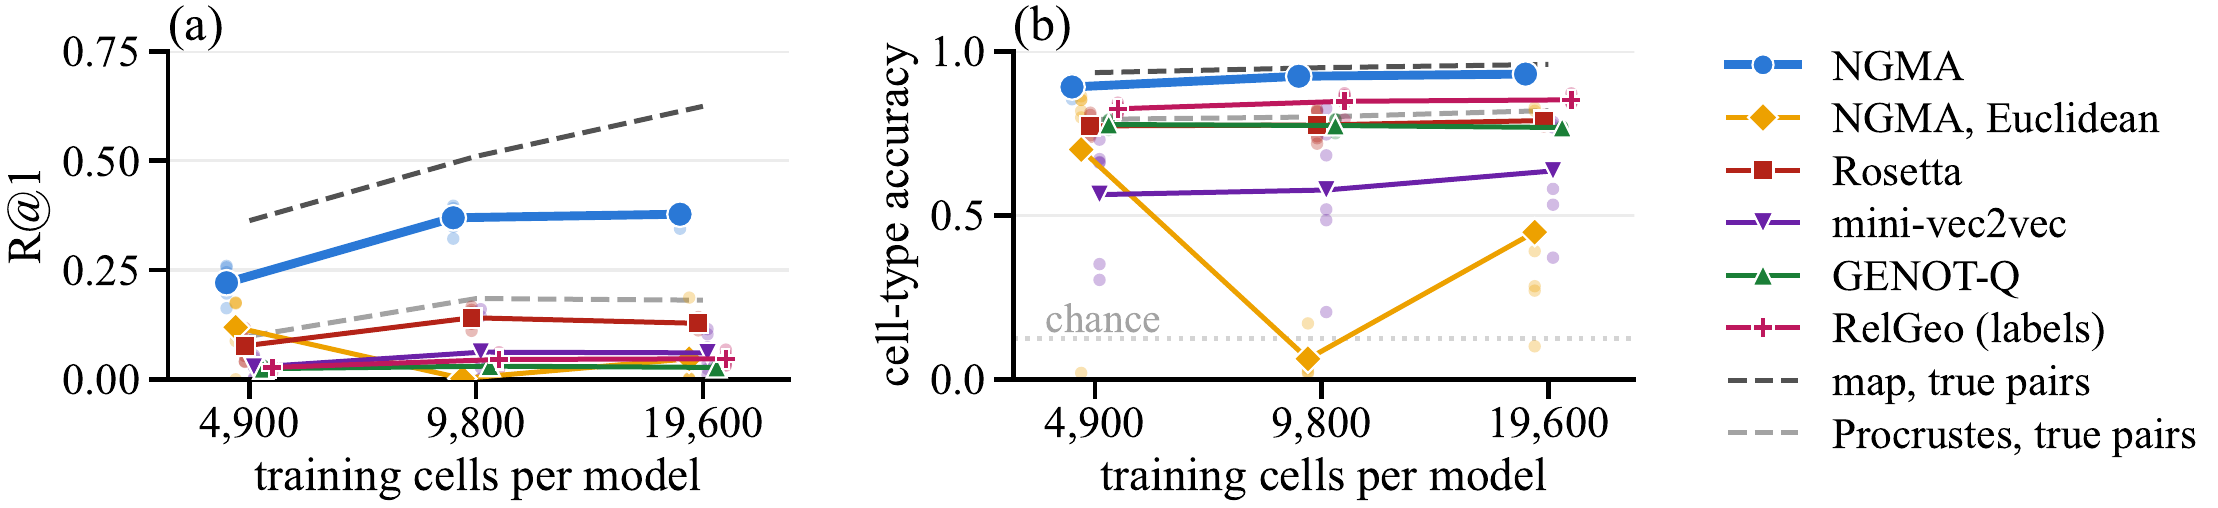
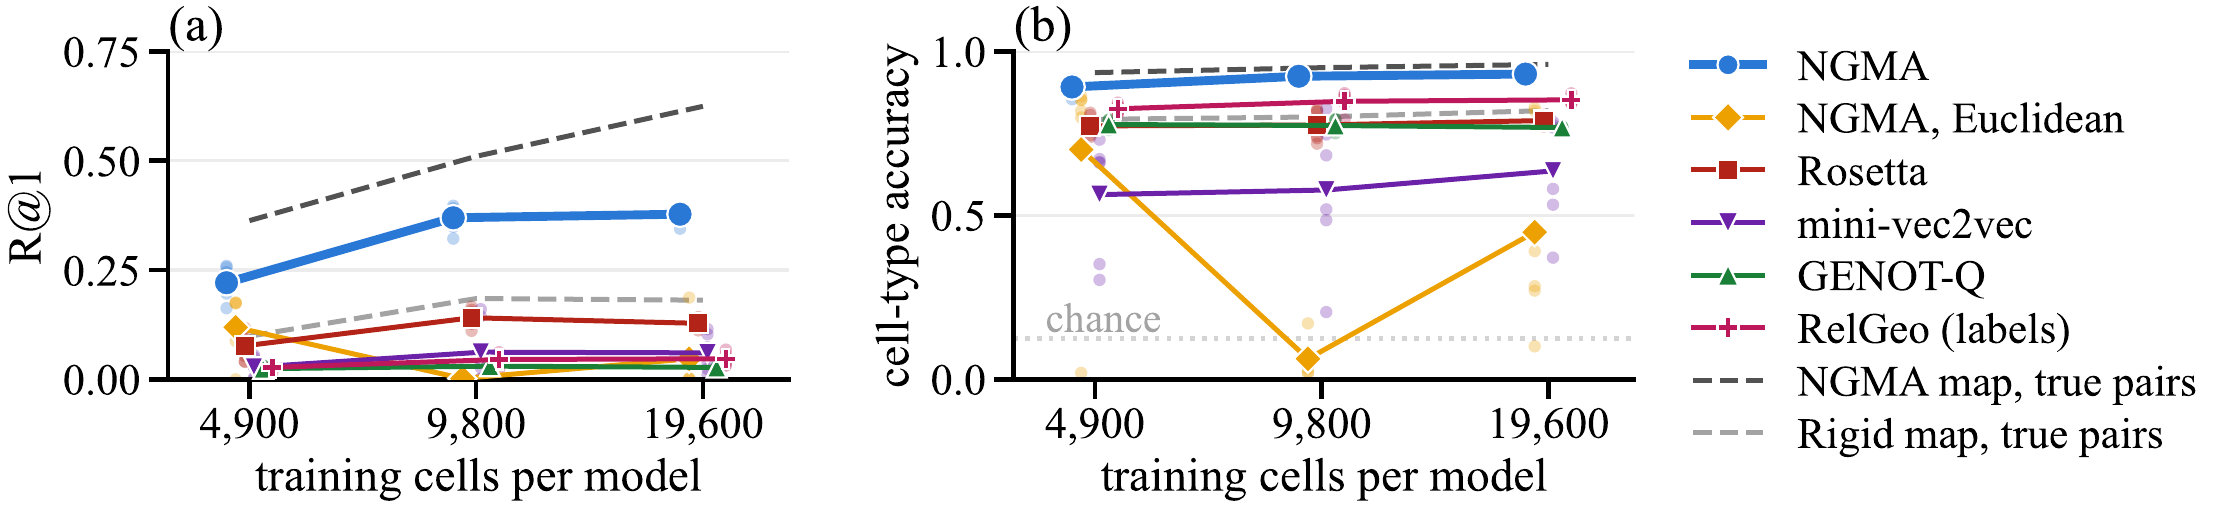
initial stuff

diff --git a/README.md b/README.md
@@ -7,37 +7,88 @@ Technical University of Denmark
 
 **NeurIPS 2026**
 
-<!-- TODO: paper and arXiv links -->
-[Results](#results) · [How NGMA works](#ngma-as-the-code-runs-it) · [Reproducing the paper](#reproducing-the-paper) · [Citation](#citation)
+**[Paper (PDF)](https://syrota.me/files/ngma.pdf)** · [Watch it](#two-latent-spaces-morphing-into-each-other) · [What we show](#what-we-show) · [Results](#results-in-numbers) · [How NGMA works](#ngma-as-the-code-runs-it) · [Reproducing the paper](#reproducing-the-paper) · [Citation](#citation)
 
 </div>
 
-Train two models on the same kind of data, with a different prior, loss, architecture or set of
-training points, and each puts a given data point somewhere else in its latent space. *Unpaired
-alignment* asks for the map between the two latent spaces from the two clouds of representations
-alone, with no data point known to both. That only makes sense if the two spaces share something
-the map preserves. We show that, under a precise form of the manifold hypothesis, they share the
-pullback of the data metric. The alignment map preserves it and the distribution of
-representations, and it is the only map that does so if and only if the data distribution breaks
-every symmetry of the data manifold, which holds generically. Our method, Neural Gromov–Monge
-Alignment (NGMA), uses no pairs and no labels.
+**Two models trained apart, on different data or with different priors, share not one data point.
+NGMA still finds which representation is which, with no pairs and no labels, and we prove when
+that is possible.**
 
-<p align="center"><img src="assets/distances.png" width="90%" alt="Pairwise distances of the same images in two VAEs: Euclidean distances scatter widely and differ in scale by five; pullback distances lie along the diagonal."></p>
+<p align="center"><img src="assets/cells.png" width="100%" alt="t-SNE of model b's lung cells by compartment, with grey lines from sampled cells to the cells they are matched to: short and within compartment for NGMA, long and across the map with Euclidean distances."></p>
 
-<sub>Two VAEs trained on the same FashionMNIST images, one with a VampPrior and one with a
-Gaussian prior. Each bin counts pairs of the same two held-out images, measured in both models
-(1,500 images, 1.1 million pairs). Euclidean latent distances do not agree: one model's are about
-five times the other's, and two thirds of the images have a different nearest neighbour in each model.
-Under each model's pullback metric, the distances agree at the same scale. The dashed line is the
-best single rescaling of one model's distances onto the other's.</sub>
+<sub>Two scVI models trained on disjoint halves of the Tabula Sapiens lung cells (19,600 each).
+With the pullback geometry, NGMA matches 37.7% of 10,000 held-out cells to themselves (chance is
+0.01%) and 93% to a cell of their type; with Euclidean latent distances, 0.02% and 10%.</sub>
 
 <table>
 <tr>
-<td align="center" width="33%"><h2>0.871</h2>R@1 on FashionMNIST between VampPrior and Gaussian-prior VAEs, without pairs. A rotation fitted on the true pairs reaches 0.071.</td>
-<td align="center" width="33%"><h2>9 of 9</h2>image settings in which NGMA is ahead of every baseline, label-informed ones included.</td>
-<td align="center" width="33%"><h2>38%</h2>of 10,000 held-out lung cells matched to themselves, between models trained on different cells (19,600 each). Chance is 0.01%.</td>
+<td align="center" width="33%"><h2>3,800× chance</h2>38% of 10,000 held-out lung cells matched to themselves, between models that never saw the same cell.</td>
+<td align="center" width="33%"><h2>36/36 · 9/9</h2>lung samples and image settings in which NGMA is ahead of every baseline, label-informed ones included.</td>
+<td align="center" width="33%"><h2>0.871 vs 0.071</h2>R@1 on FashionMNIST between VampPrior and Gaussian-prior VAEs: NGMA with no pairs, against a rigid map fitted on all the true pairs.</td>
 </tr>
 </table>
+
+## Two latent spaces morphing into each other
+
+<p align="center"><img src="assets/morph_lung.gif" width="100%" alt="Animation: model a's map of 10,000 lung cells morphing into model b's map, each cell moving to the cell it is matched to, for NGMA and Rosetta."></p>
+<p align="center"><img src="assets/morph_fmnist.gif" width="100%" alt="Animation: a VampPrior VAE's map of 10,000 FashionMNIST images morphing into a Gaussian-prior VAE's map, each image moving to the image it is matched to, for NGMA and Rosetta."></p>
+
+<sub>Each point moves from its place in model a's map to the place, in model b's map, of the point
+it is matched to; the path is drawn for display, the end point is the match. Top: scVI models of
+lung cells trained on different cells. Bottom: FashionMNIST VAEs with a VampPrior and a Gaussian
+prior, where Rosetta's matches fall on 1,679 of the 10,000 images and its map thins out.</sub>
+
+## Real images, matched without pairs
+
+<p align="center"><img src="assets/garments.png" width="100%" alt="FashionMNIST test images and the test image each method matches them to: the rigid map on the true pairs misses all ten, NGMA finds eight."></p>
+<p align="center"><img src="assets/faces.png" width="100%" alt="CelebA test faces and NGMA's matches: the face itself on a successful draw, another face on a failed draw, and the face's own mirror image when mirrored faces are included."></p>
+
+<sub>Only dataset images are shown, never decoder output. The faces are matched model a to model b,
+as in the paper's mirror test; the paper's tables combine both directions (R@1 0.995 and 0.11 on
+these two draws). The mirror alignment is NGMA's main failure, on 7 of 35 CelebA draws.</sub>
+
+## What we show
+
+- **Any two models of one data-generating process share one geometry:** the pullback of the
+  data metric. This holds whether the models are encoders, decoders or both, and whatever their
+  architecture, loss, prior or training data. Euclidean latent distances are not shared: between
+  a VampPrior and a Gaussian-prior VAE they differ in scale by a factor of five (below).
+- **The alignment is identifiable.** It is the only map that preserves this geometry and carries
+  one distribution of representations onto the other if and only if the data distribution breaks
+  every symmetry of the data manifold, and generic distributions do.
+- **It is recoverable from samples.** Under identifiability, the alignment coupling is the unique
+  optimum of Gromov–Wasserstein and of fused GW. Recovery is exact when both models encode the same
+  observations in any order, and consistent when they encode independent samples.
+- **NGMA beats every baseline in every setting**, unpaired and label-informed alike, on single
+  cells and on images, with no pairs and no labels.
+
+<p align="center"><img src="assets/overview.png" width="100%" alt="Overview: the alignment map as a change of coordinates on the data manifold, identifiability under symmetry breaking, and recovery from samples through a coupling."></p>
+
+<details>
+<summary><b>The figure in words</b></summary>
+<br>
+
+Each model is a chart of the data manifold (H2), so the alignment map A = f<sub>b</sub><sup>−1</sup> ∘ f<sub>a</sub>
+is a change of coordinates, and under the pullback metric each latent space is a metric measure
+space isomorphic to the data's. A is *identifiable*, the only isomorphism between the two latent
+spaces, if and only if no isometry of the data manifold other than the identity preserves the data
+distribution (symmetry breaking, C1); otherwise each such symmetry S gives another isomorphism
+f<sub>b</sub><sup>−1</sup> ∘ S ∘ f<sub>a</sub>. Without pairs, a coupling of the two samples takes
+the place of the pairs. Under C1 the Gromov–Wasserstein optimum is unique and lies on the graph of
+A. If almost every point has its own distribution of distances to the others (distinguishable
+points, C2), a linear program between those distributions, the LDD-LP, finds the same optimum. NGMA
+fuses the two problems, which keeps the unique optimum under C1 without needing C2. The coupling,
+and with it A, is recovered exactly when both models encode the same observations, even without
+identifiability, and consistently when they encode independent samples.
+</details>
+
+<p align="center"><img src="assets/distances.png" width="90%" alt="Pairwise distances of the same images in two VAEs: Euclidean distances scatter widely and differ in scale by five; pullback distances lie along the diagonal."></p>
+
+<sub>The same 1,500 held-out FashionMNIST images in a VampPrior and a Gaussian-prior VAE, 1.1
+million pairs. Euclidean latent distances disagree: one model's are about five times the other's,
+and two thirds of the images have a different nearest neighbour in each model. Pullback distances
+agree, at the same scale.</sub>
 
 <details>
 <summary><b>New to unpaired alignment?</b></summary>
@@ -66,17 +117,16 @@ other model is ranked first among all of them.
 
 Recent unpaired methods align text encoders whose loss puts the representations on a sphere,
 where matching similarity kernels makes the alignment a rotation; Rosetta imposes the sphere on
-vision encoders before aligning them. We ask what two models share when nothing forces a sphere on them.
-Under the metric manifold hypothesis (H1) and model coordinates (H2), any two models of one
-data-generating process, whether built from encoders, decoders or both, share the pullback of the
-data metric. The alignment map is an isometry of it that carries one distribution of
-representations onto the other.
+vision encoders before aligning them. We ask what two models share when nothing forces a sphere on
+them. Under the metric manifold hypothesis (H1) and model coordinates (H2), any two models of one
+data-generating process share the pullback of the data metric, and the alignment map is an
+isometry of it that carries one distribution of representations onto the other.
 
 That map need not be a rotation, and between VAEs with different priors it is far from one. On
-FashionMNIST, a Procrustes rotation fitted on the true pairs reaches R@1 0.071 between a VampPrior
-and a Gaussian-prior model; NGMA reaches 0.871 without pairs, and the best unpaired baseline,
-Rosetta, 0.065. NGMA is ahead of Rosetta and mini-vec2vec in every setting of Table 1, and at every share of images
-the two samples have in common.
+FashionMNIST, a rigid map fitted on all the true pairs reaches R@1 0.071 between a VampPrior and a
+Gaussian-prior model; NGMA reaches 0.871 without pairs, and the best unpaired baseline, Rosetta,
+0.065. NGMA is ahead of Rosetta and mini-vec2vec in every setting of Table 1, and at every share of
+images the two samples have in common.
 </details>
 
 <details>
@@ -85,67 +135,53 @@ the two samples have in common.
 
 Good. Here is where NGMA falls short, and what we do not claim.
 
-- **Near-symmetries break some draws.** On CelebA, a left-right flip nearly preserves the
-  distribution of faces. 7 of 35 draws fail, and on every one the map sends faces to their mirror
-  images (mirror R@1 0.87–0.99, true R@1 at most 0.11). Without pairs, the mirror alignment is
-  almost indistinguishable from the true one.
+- **Near-symmetries break some draws.** On CelebA, 7 of 35 draws find the mirror alignment
+  (mirror R@1 0.87–0.99, true R@1 at most 0.11; the faces above). Without pairs, it is almost
+  indistinguishable from the true one.
+- **The guarantees are for global optima,** which NGMA's solver may not reach.
 - **The fused coupling is not always the best coupling.** On the sphere, from 8 landmarks on, it
-  removes the seeds that GW alone leaves far from the truth, but the LDD-LP alone has the smaller median error for 32 to
-  256 landmarks.
+  removes the seeds that GW alone leaves far from the truth, but the LDD-LP alone has the smaller
+  median error for 32 to 256 landmarks.
 - **Some leads are within the spread.** On FashionMNIST with Gaussian priors, NGMA reaches
-  0.719 ± 0.112 and Rosetta 0.710 ± 0.040.
-- **Pairs still help.** The same map class fitted on the true pairs reaches 0.995–1.000 in every
+  0.719 ± 0.112 and Rosetta 0.710 ± 0.040, and the rigid map on the true pairs 0.782.
+- **Pairs still help.** NGMA's map class fitted on the true pairs reaches 0.995–1.000 in every
   image setting.
-- **Equal dimensions only.** NGMA's maps act on whole latent spaces of equal dimension. When two
-  models choose different dimensions, the alignment is still a bijection between their copies of
-  the data manifold, but learning it is future work.
+- **Equal dimensions only.** NGMA's maps act on whole latent spaces of equal dimension.
 - **One modality.** The theory covers models of one data-generating process. Across modalities,
   the shared source of both data manifolds, and a metric that both induce, is the next step.
 </details>
 
-## The theory in one figure
+## Results in numbers
 
-<p align="center"><img src="assets/overview.png" width="100%" alt="Overview: the alignment map as a change of coordinates on the data manifold, identifiability under symmetry breaking, and recovery from samples through a coupling."></p>
+### Single cells: models that never saw the same cell
 
-Each model is a chart of the data manifold (H2), so the alignment map A = f<sub>b</sub><sup>−1</sup> ∘ f<sub>a</sub>
-is a change of coordinates, and under the pullback metric each latent space is a metric measure
-space isomorphic to the data's. A is *identifiable*, the only isomorphism between the two latent
-spaces, if and only if no isometry of the data manifold other than the identity preserves the data
-distribution (symmetry breaking, C1). Without pairs, a coupling of the two samples takes the place
-of the pairs. Under C1 the Gromov–Wasserstein optimum is unique and lies on the graph of A. If
-almost every point has its own distribution of distances to the others (distinguishable points,
-C2), a linear program between those distributions, the LDD-LP, finds the same optimum. NGMA fuses
-the two problems, which keeps the unique optimum under C1 without needing C2. The coupling, and with
-it A, is recovered exactly when both models encode the same observations, even without
-identifiability, and consistently when they encode independent samples.
+Two scVI models of Tabula Sapiens lung cells, each with the recipe of the published Tabula Sapiens
+lung model, trained on disjoint halves of the cells, so they share only the tissue. We keep each
+encoder, add seven decoders to its own, and measure distances under the Fisher metric of scVI's
+negative-binomial likelihood, pulled back through the eight decoders. Both models encode the same
+10,000 held-out cells, which gives the true pairs for scoring, never for fitting.
 
-## Results
+<p align="center"><img src="assets/maps_lung.png" width="100%" alt="Two scVI latent spaces of the same cells, and model b's map coloured by what each cell is matched to with no alignment, Rosetta and NGMA."></p>
 
-### On the sphere, symmetry breaking decides recovery
+<sub>Rosetta's map was not stored, so it was rerun on this draw with the paper's settings: R@1 0.119
+in the rerun, 0.126 in the run behind the paper's tables.</sub>
 
-<p align="center"><img src="assets/sphere_measures.png" width="100%" alt="Three measures on the sphere: uniform, one von Mises-Fisher, and a generic mixture; only the mixture breaks every symmetry."></p>
-<p align="center"><img src="assets/sphere.png" width="100%" alt="Rotation error against the number of landmarks, the three couplings on the mixture, and the margin test."></p>
+<p align="center"><img src="assets/lung.png" width="100%" alt="R@1 and cell-type accuracy against the number of training cells per model, for NGMA and the baselines."></p>
 
-On the sphere we choose the alignment ourselves: model a sees the data as they are, model b rotates
-them by a fixed R. Under the uniform measure and a single von Mises–Fisher, some rotations preserve
-the measure, and the error of the recovered rotation stays large however many landmarks we use (a).
-The two mixtures break every symmetry, and from independent samples the LDD-LP recovers R to
-within 5°, even for the mixture with equal weights and concentrations, whose points' distance
-distributions collide along curves. When both samples are the same points in a different order, it
-recovers R exactly for every measure, the uniform one included, from 4 landmarks on. On the
-mixture, GW alone leaves 4 to 8 of 10 seeds more than 90° from R at every k up to 256, and NGMA's
-coupling none from k = 8 (b). The margin test (c) asks, from samples, whether points at separation t have
-different distance distributions. It never rejects equality for the two symmetric measures, and for
-the mixtures only for pairs of points far apart.
+NGMA ranks the true partner first for up to 38% of the 10,000 held-out cells and matches nine in
+ten to a cell of the right type among 34. It is above every baseline on all 36 samples, RelGeo with
+cell-type labels included. With Euclidean latent distances the same pipeline fails on most draws,
+and with the pullback metric of the scVI decoder alone, instead of the eight-decoder ensemble, it is
+lower on 17 of 18 draws.
 
-### Images: VAEs aligned on samples that share no image
+### Images: different priors, samples that share no image
 
 R@1 among 10,000 held-out test images (19,962 on CelebA), with the two samples drawn disjoint
 (3,000 images per side, 7,500 on CelebA), as mean ± s.d. over model pairings and draws. The
 unpaired baselines are Rosetta, mini-vec2vec, GENOT-Q and LFM, the label-informed ones RelReps and
-RelGeo. The last two columns fit NGMA's map and a Procrustes rotation on the true pairs.
+RelGeo. The last two columns fit NGMA's map and a rigid map on the true pairs.
 
-| | Prior | **NGMA** | Best unpaired | Best label-informed | NGMA's map, true pairs | Procrustes, true pairs |
+| | Prior | **NGMA** | Best unpaired | Best label-informed | NGMA's map, true pairs | Rigid map, true pairs |
 |---|---|---|---|---|---|---|
 | MNIST | Gaussian | **0.967** ± 0.021 | 0.941 ± 0.028 | 0.525 ± 0.069 ‡ | 0.998 | 0.955 |
 | | VampPrior | **0.989** ± 0.012 | 0.930 ± 0.012 | 0.552 ± 0.235 | 1.000 | 0.936 |
@@ -159,23 +195,29 @@ RelGeo. The last two columns fit NGMA's map and a Procrustes rotation on the tru
 
 <sub>The best unpaired baseline is Rosetta, or mini-vec2vec where marked †. The best label-informed
 baseline is RelGeo, or RelReps where marked ‡. On CelebA, parentheses count draws reaching R@1 of
-0.3; the failed draws are the mirror alignments described under *Sceptical?* above.</sub>
+0.3; the failed draws are the mirror alignments of the faces above.</sub>
 
-On MNIST and FashionMNIST, between models with different priors, the alignment is far from a
-rotation: every method that fits one falls behind, and NGMA without pairs exceeds even the Procrustes rotation fitted on the true
-pairs. When both samples are the same images, NGMA reaches 0.990–0.999 in every MNIST and
-FashionMNIST setting.
+On MNIST and FashionMNIST, NGMA without pairs beats a rigid map fitted on all the true pairs in
+five of six settings, and between priors by 0.44 on MNIST and 0.80 on FashionMNIST. When both
+samples are the same images, NGMA reaches 0.990–0.999 in every MNIST and FashionMNIST setting.
 
-### Single-cell models trained on different cells
+<p align="center"><img src="assets/maps_fmnist.png" width="100%" alt="Two FashionMNIST VAE latent spaces of the same images, and model b's map coloured by what each image is matched to with no alignment, Rosetta and NGMA."></p>
 
-<p align="center"><img src="assets/lung.png" width="100%" alt="R@1 and cell-type accuracy against the number of training cells per model, for NGMA and the baselines."></p>
+<sub>Rosetta was rerun as for the lung (R@1 0.051 in both runs).</sub>
 
-Two scVI models of Tabula Sapiens lung cells, trained on disjoint sets of cells, so they share only
-the tissue. Without pairs, NGMA retrieves the true partner of up to 38% of 10,000 held-out cells
-(chance 1 in 10,000) and the right cell type for nine in ten. It is above every baseline on every
-sample, RelGeo with cell-type labels included. With Euclidean latent distances it fails on most
-draws, and with the pullback metric of the scVI decoder alone, instead of the ensemble, it is lower
-on 17 of 18 draws.
+### On the sphere, symmetry breaking decides recovery
+
+<p align="center"><img src="assets/sphere_measures.png" width="100%" alt="Three measures on the sphere: uniform, one von Mises-Fisher, and a generic mixture; only the mixture breaks every symmetry."></p>
+<p align="center"><img src="assets/sphere.png" width="100%" alt="Rotation error against the number of landmarks, the three couplings on the mixture, and the margin test."></p>
+
+Here we choose the alignment ourselves: model b rotates the data by a fixed R. Under the uniform
+measure and a single von Mises–Fisher, some rotations preserve the measure, and the recovered
+rotation stays far from R however many landmarks we use (a). The two mixtures break every symmetry,
+and from independent samples the LDD-LP recovers R to within 5°; from the same points in a
+different order it recovers R exactly for every measure, from 3 landmarks on. On the mixture, GW
+alone leaves 4 to 8 of 10 seeds more than 90° from R at every k up to 256, and NGMA's coupling none
+from k = 8 (b). The margin test (c) never rejects equal distance distributions for the two
+symmetric measures, and for the mixtures only for pairs of points far apart.
 
 ## NGMA, as the code runs it
 
